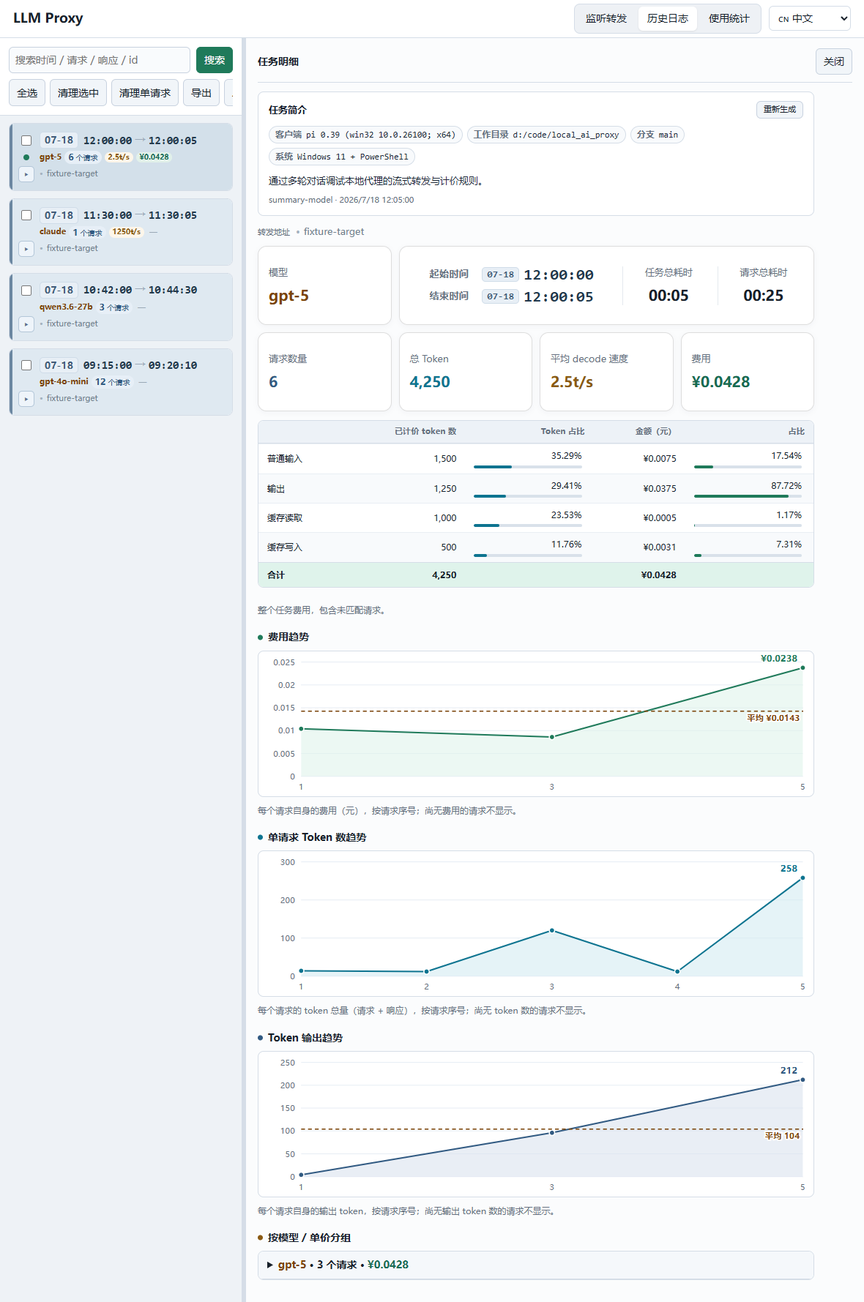
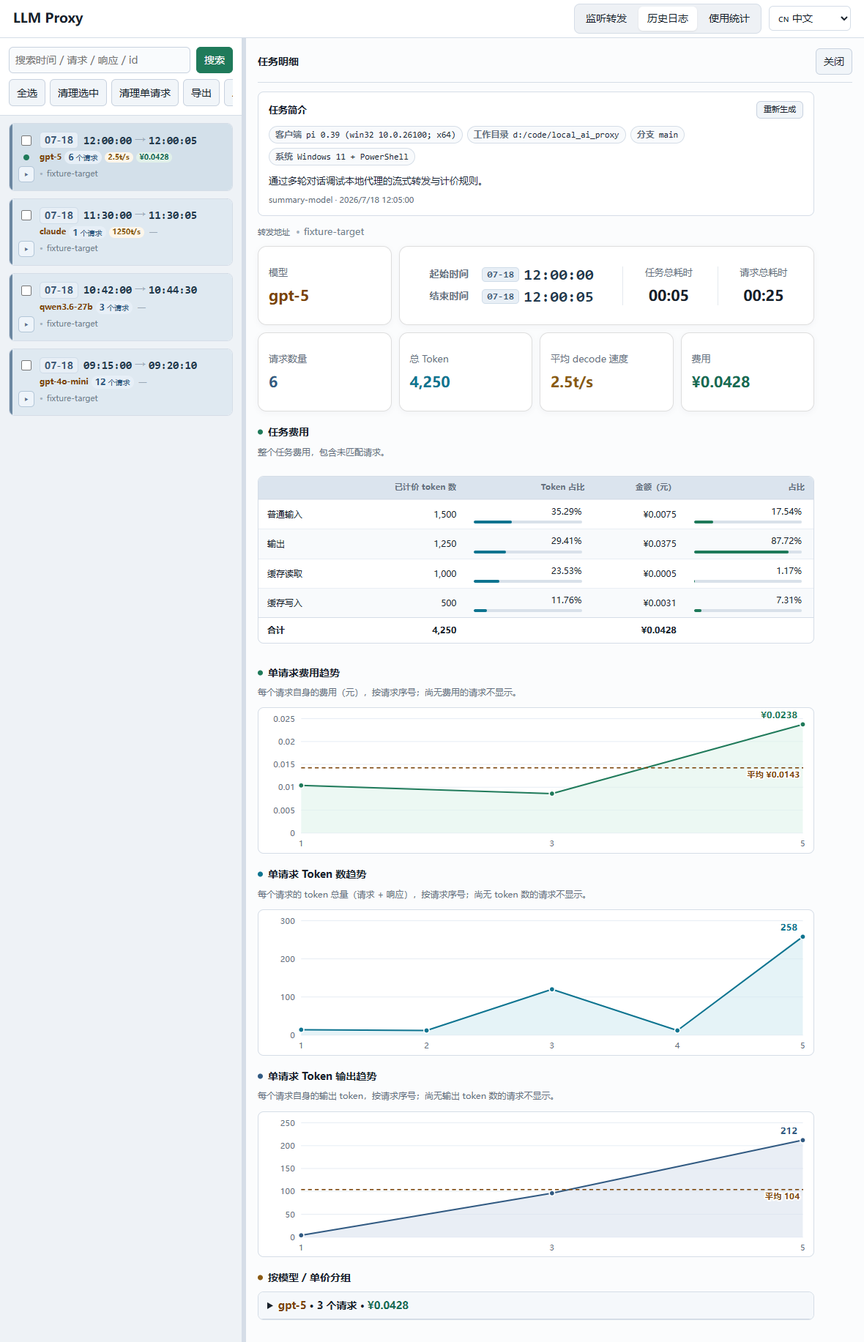
feat(admin-ui): group the task detail panel by titled sections
The task detail panel read as one flat block: the cost table had no name, two
trend charts were titled as if they were task totals when they plot one request
each, and every section's scope line sat under the picture it described, so it
read as a caption of what was already drawn.

- Add a "Task cost" / "任务费用" heading above the task breakdown table, with the
  same cost-green dot as the trend below it. The heading and its scope line only
  appear with the table; an unpriced task keeps the reason line plus the same
  scope line, since there is no heading to hang it on.
- Rename 费用趋势 -> 单请求费用趋势 and Token 输出趋势 -> 单请求 Token 输出趋势
  (English mirrors), which is what the series and the notes already say: one
  request's own cost and its own response_token_count.
- Move all four scope lines under their section title and above the content.
  .pricing-panel h3 + .pricing-note now carries the spacing: the line hugs the
  heading and hands the chart or table a full 12 px, instead of sitting 4 px
  above the svg and reading as its caption.
- Table header band darkens to #dbe4ee and the total row loses its fill, so the
  header is the only filled band and the total is marked by the border above it
  and bold type.

Two UI assertions pin the title-to-note adjacency, because the CSS spacing hangs
on that same sibling relation. Baselines re-captured: both task-detail images
1180 x 1833; all ten baseline rows verified against the on-disk bytes and
[…]

diff --git a/src/admin/static/modules/task-detail.js b/src/admin/static/modules/task-detail.js
@@ -840,13 +840,27 @@ export function renderTaskPricingPanel() {
   // The task brief is its own card at the very top of the panel, above the
   // fact grid: it is free-form prose, so it does not fit the stat-card shape.
   const briefCard = taskBriefCardHtml(renderInput.groupId, renderInput.brief);
+  // Every section in this panel reads the same way: title, then the one line
+  // that says what the section shows and what it leaves out, then the picture.
+  // Keeping the scope line under the title means the reader knows what they are
+  // about to look at before reaching the chart or the table, instead of reading
+  // it as a caption of whatever was already drawn.
   const tokenSeries = renderInput.tokenSeries;
-  const tokenChart = `<h3 class="section-token">${escapeHtml(t("tokenTrend"))}</h3>${tokenSeries === null ? `<p>${escapeHtml(t("loading"))}</p>` : taskTokenChartHtml(tokenSeries)}<p class="pricing-note">${escapeHtml(t("tokenTrendNote"))}</p>`;
+  const tokenChart = `<h3 class="section-token">${escapeHtml(t("tokenTrend"))}</h3><p class="pricing-note">${escapeHtml(t("tokenTrendNote"))}</p>${tokenSeries === null ? `<p>${escapeHtml(t("loading"))}</p>` : taskTokenChartHtml(tokenSeries)}`;
   const costSeries = renderInput.costSeries;
-  const costChart = `<h3 class="section-cost">${escapeHtml(t("costTrend"))}</h3>${costSeries === null ? `<p>${escapeHtml(t("loading"))}</p>` : taskCostChartHtml(costSeries)}<p class="pricing-note">${escapeHtml(t("costTrendNote"))}</p>`;
+  const costChart = `<h3 class="section-cost">${escapeHtml(t("costTrend"))}</h3><p class="pricing-note">${escapeHtml(t("costTrendNote"))}</p>${costSeries === null ? `<p>${escapeHtml(t("loading"))}</p>` : taskCostChartHtml(costSeries)}`;
   const outputTokenSeries = renderInput.outputTokenSeries;
-  const outputTokenChart = `<h3 class="section-output">${escapeHtml(t("outputTokenTrend"))}</h3>${outputTokenSeries === null ? `<p>${escapeHtml(t("loading"))}</p>` : taskOutputTokenChartHtml(outputTokenSeries)}<p class="pricing-note">${escapeHtml(t("outputTokenTrendNote"))}</p>`;
-  panel.innerHTML = `<div class="pricing-panel-head"><strong>${escapeHtml(t("taskPricing"))}</strong><button type="button" data-close-pricing>${escapeHtml(t("close"))}</button></div>${briefCard}${summaryCard}${data.priced_request_count ? taskBreakdownTableHtml(data.breakdown, pricingDecimalFromNano(data.cost_nano_cny)) : `<p>${escapeHtml(reasons || t("unpriced"))}</p>`}<p class="pricing-note">${escapeHtml(t("taskWholeScope"))}</p>${costChart}${tokenChart}${outputTokenChart}<h3 class="section-groups">${escapeHtml(t("priceGroups"))}</h3>${groups || `<p>${escapeHtml(t("unpriced"))}</p>`}`;
+  const outputTokenChart = `<h3 class="section-output">${escapeHtml(t("outputTokenTrend"))}</h3><p class="pricing-note">${escapeHtml(t("outputTokenTrendNote"))}</p>${outputTokenSeries === null ? `<p>${escapeHtml(t("loading"))}</p>` : taskOutputTokenChartHtml(outputTokenSeries)}`;
+  // The breakdown table is a section of its own: the heading names it "task
+  // cost" and carries the same green dot as the cost trend below it, so the
+  // table, its total row and the cost chart read as one cost-colored group.
+  // The scope line belongs under that heading, and an unpriced task has the
+  // reason line here instead: with no heading to hold the scope line, it stays
+  // below the reason so the panel still says what its numbers would have covered.
+  const breakdownSection = data.priced_request_count
+    ? `<h3 class="section-cost">${escapeHtml(t("taskCostBreakdown"))}</h3><p class="pricing-note">${escapeHtml(t("taskWholeScope"))}</p>${taskBreakdownTableHtml(data.breakdown, pricingDecimalFromNano(data.cost_nano_cny))}`
+    : `<p>${escapeHtml(reasons || t("unpriced"))}</p><p class="pricing-note">${escapeHtml(t("taskWholeScope"))}</p>`;
+  panel.innerHTML = `<div class="pricing-panel-head"><strong>${escapeHtml(t("taskPricing"))}</strong><button type="button" data-close-pricing>${escapeHtml(t("close"))}</button></div>${briefCard}${summaryCard}${breakdownSection}${costChart}${tokenChart}${outputTokenChart}<h3 class="section-groups">${escapeHtml(t("priceGroups"))}</h3>${groups || `<p>${escapeHtml(t("unpriced"))}</p>`}`;
   fitTaskSummaryValues(panel);
 }
 function loadTaskTokenSeries(groupId, signal) {

diff --git a/test-node/ui/admin-ui-history.test.ts b/test-node/ui/admin-ui-history.test.ts
@@ -757,6 +757,14 @@ describe("admin UI history page", { timeout: UI_TEST_TIMEOUT_MS }, () => {
       group.locator(".log-group-head").press("Enter"),
     ]);
     await expectPage(groupBreakdown).toBeHidden();
+    // The breakdown table is its own section: the "Task cost" heading sits
+    // directly above it and shares the cost-green dot with the cost trend.
+    await expectPage(panel.locator("h3.section-cost").first()).toHaveText("Task cost");
+    // Each section states its scope right under the title, before the picture.
+    // The CSS that spaces this line hangs on the same sibling adjacency.
+    await expectPage(panel.locator("h3.section-cost + .pricing-note").first()).toHaveText(
+      "Whole-task cost, including requests outside this list.",
+    );
     const taskBreakdown = panel.locator(".task-breakdown").first();
     await expectPage(taskBreakdown.locator("thead")).toContainText("Share");
     await expectPage(taskBreakdown.locator("tbody tr").first()).toContainText("17.54%");
@@ -781,9 +789,9 @@ describe("admin UI history page", { timeout: UI_TEST_TIMEOUT_MS }, () => {
     );
     // The highest point is labeled with its exact value (request #5 here).
     await expectPage(tokenChart.locator(".token-chart-peak")).toHaveText("258");
-    // Cost trend line chart: one dot per priced request with its own cost;
+    // Per-request cost trend line chart: one dot per priced request with its own cost;
     // the priced per-request costs sum to the task total in the panel header.
-    await expectPage(panel).toContainText("Cost trend");
+    await expectPage(panel).toContainText("Per-request cost trend");
     const costChart = panel.locator(".cost-chart svg");
     await expectPage(costChart).toBeVisible();
     await expectPage(costChart.locator(".token-chart-dot")).toHaveCount(3);
@@ -800,9 +808,12 @@ describe("admin UI history page", { timeout: UI_TEST_TIMEOUT_MS }, () => {
     // (0.0104 + 0.0086 + 0.02375) / 3, labeled at the right edge of the plot.
     await expectPage(costChart.locator(".token-chart-mean")).toHaveCount(1);
     await expectPage(costChart.locator(".token-chart-mean-label")).toHaveText("avg $0.0143");
-    // Token output trend line chart: one dot per request with a known output
+    // Per-request token output trend line chart: one dot per request with a known output
     // token count, each carrying that request's own (non-cumulative) count.
-    await expectPage(panel).toContainText("Token output trend");
+    await expectPage(panel).toContainText("Per-request token output trend");
+    await expectPage(panel.locator("h3.section-output + .pricing-note")).toHaveText(
+      "This request's own output tokens, by request sequence; requests without an output token count yet are not shown.",
+    );
     const outputChart = panel.locator(".output-token-chart svg");
     await expectPage(outputChart).toBeVisible();
     await expectPage(outputChart.locator(".token-chart-dot")).toHaveCount(3);

diff --git a/src/admin/static/modules/core.js b/src/admin/static/modules/core.js
@@ -450,15 +450,16 @@ const translations = {
     tokenShare: "Token 占比",
     costShare: "占比",
     total: "合计",
+    taskCostBreakdown: "任务费用",
     activeDuration: "请求总耗时",
     totalDuration: "任务总耗时",
     tokenTrend: "单请求 Token 数趋势",
     tokenTrendNote: "每个请求的 token 总量（请求 + 响应），按请求序号；尚无 token 数的请求不显示。",
     tokenTrendNoData: "暂无 token 数据",
-    costTrend: "费用趋势",
+    costTrend: "单请求费用趋势",
     costTrendNote: "每个请求自身的费用（元），按请求序号；尚无费用的请求不显示。",
     costTrendNoData: "暂无费用数据",
-    outputTokenTrend: "Token 输出趋势",
+    outputTokenTrend: "单请求 Token 输出趋势",
     outputTokenTrendNote: "每个请求自身的输出 token，按请求序号；尚无输出 token 数的请求不显示。",
     outputTokenTrendNoData: "暂无输出 token 数据",
     trendAvgPrefix: "平均",
@@ -814,17 +815,18 @@ const translations = {
     tokenShare: "Token share",
     costShare: "Share",
     total: "Total",
+    taskCostBreakdown: "Task cost",
     activeDuration: "Request time",
     totalDuration: "Task time",
     tokenTrend: "Per-request token count trend",
     tokenTrendNote:
       "Total tokens (request + response) per request, by request sequence; requests without token counts are not shown.",
     tokenTrendNoData: "No token data",
-    costTrend: "Cost trend",
+    costTrend: "Per-request cost trend",
     costTrendNote:
       "This request's own cost, by request sequence; requests without a cost yet are not shown.",
     costTrendNoData: "No cost data",
-    outputTokenTrend: "Token output trend",
+    outputTokenTrend: "Per-request token output trend",
     outputTokenTrendNote:
       "This request's own output tokens, by request sequence; requests without an output token count yet are not shown.",
     outputTokenTrendNoData: "No output token data",

diff --git a/src/admin/static/app.css b/src/admin/static/app.css
@@ -1637,6 +1637,13 @@ label span {
   color: var(--muted);
   font-size: 12px;
 }
+/* A scope line written straight under a panel heading hugs that heading (the
+   collapsed 8 px of the heading's own bottom margin) and then hands the chart
+   or table below it a full 12 px, so the line reads as part of the title rather
+   than as a caption of whatever was drawn under it. */
+.pricing-panel h3 + .pricing-note {
+  margin: 2px 0 12px;
+}
 .request-pricing {
   padding: 0 10px 8px;
 }
@@ -1823,7 +1830,10 @@ label span {
 .pricing-table thead th {
   border-top: none;
   border-bottom: 1px solid var(--line);
-  background: #edf2f7;
+  /* The header row is the darkest band of the table: it has to stay readable
+     above the near-white body rows and the pale total row, so the column names
+     carry the weight of the hierarchy instead of the small muted type. */
+  background: #dbe4ee;
   color: var(--muted);
   font-size: 11px;
   font-weight: 600;
@@ -1846,7 +1856,9 @@ label span {
   padding-top: 8px;
   padding-bottom: 8px;
   border-top: 1px solid var(--line);
-  background: var(--accent-soft);
+  /* No fill: the total row sits on the table's own white, so the bold type and
+     the border above it are what mark it as the sum, and the dark header band
+     stays the only filled band in the table. */
   font-weight: 700;
 }
 /* Group tables live inside the <details> card; let the card provide the frame. */

diff --git a/docs/current/contracts/ui-visual-baseline.md b/docs/current/contracts/ui-visual-baseline.md
@@ -22,8 +22,8 @@
[7 lines of base64/hex data omitted]
 
 哈希复现命令：
 
@@ -119,10 +119,9 @@ sha256sum doc/ui_proxy_cn.png doc/ui_proxy_en.png doc/ui_lb_cn.png doc/ui_lb_en.
 “任务明细”是 History 页内的浮层面板（`#pricingPanel`，覆盖 Request/Response 详情区，左侧任务列表保持可见），由任务卡片头部点击打开，由固定 fixture 驱动，关键基线：
 
 - 面板顶部为标题行（“任务明细”/“Task details”）与右侧“关闭”按钮，下方以细线分隔。
-- 标题下为总费用高亮块（绿色左色条 + 浅绿底）：左侧大号总费用金额，右侧“已计价 X / 未计价 Y / 等待中 Z”计数。
-- 高亮块下按序为转发地址、任务总耗时（首请求到末请求结束的墙钟时间）与请求总耗时（各请求耗时之和）三行说明。
-- 中部为计费明细表：按“未缓存输入 / 输出 / 缓存读取 / 缓存写入”列出计费 tokens、token 占比、金额与费用占比（带占比条）；token 占比条为青色（#0e7490）、费用占比条为绿色，两列配色与折线图一致，末行为合计。
-- 表下为"Whole-task cost"提示文案,随后是三张 SVG 折线图(x 均为请求序号,一个点一个请求,点带悬停 title),每图下方各有一行说明:费用趋势(y=每请求自身费用,无费用的请求不显示)、Token 总量趋势(y=每请求 token 总量,无 token 数的请求不显示)、Token 输出趋势(y=自任务开始到每个请求为止的累计输出 token)。三图按指标语义着色:Token 总量为青色(#0e7490,与"总 Token"卡片同色)、Token 输出为蓝色(#315a82,与请求数量蓝色同系)、费用保持绿色（绿色专属于费用语义）；各节标题左侧有与折线同色的小圆点，帮助快速区分三个分区。费用趋势与 Token 输出趋势图内另有一条表示逐请求平均值的水平虚线（琥珀色，独立于各图折线颜色，避免与数据混在一起），数值标在线右端（平均值为 0 或仅一个点时不画）；虚线与数值画在折线点之上，点密集时不被遮挡；逐请求 Token 总量图不含此线。
+- 标题行下依次是“任务简介”卡片（内容见上表基线行）、转发地址整行，以及 4 列事实卡片网格：第一行是模型卡片与横跨 3 列的时间条（时间范围 / 任务总耗时 / 请求总耗时），第二行是请求数量、总 Token、平均 decode 速度与费用。费用卡片只显示任务已知金额合计；已计价、未计价与等待中的请求数量不进面板，只有列表卡片和列表圆点用到它们。
+- 中部为任务费用表，自带节标题“任务费用”/“Task cost”（绿色圆点，与下方费用趋势同一语义色）：标题和它的范围说明只在有计价请求、表格出现时一起出现；未计价任务在这一行显示原因，后面跟着同一句范围说明，既没有表格也没有标题。表按“普通输入 / 输出 / 缓存读取 / 缓存写入”列出已计价 token 数、token 占比、金额与费用占比（带占比条）；token 占比条为青色（#0e7490）、费用占比条为绿色，两列配色与折线图一致，末行为合计。表头行底色 #dbe4ee 是全表唯一填色的带，合计行不填底色，与表体同一白底，只靠上边框和加粗字重与表体分开。
+- “整个任务费用，包含未匹配请求。”这句范围说明写在“任务费用”标题下方、表格上方,随后是三张 SVG 折线图(x 均为请求序号,一个点一个请求,点带悬停 title),每图的说明写在各自标题下方、图上方:单请求费用趋势(y=每请求自身费用,无费用的请求不显示)、单请求 Token 数趋势(y=每请求 token 总量,无 token 数的请求不显示)、单请求 Token 输出趋势(y=每个请求自身的输出 token,尚无输出 token 数的请求不显示)。三图按指标语义着色:Token 总量为青色(#0e7490,与"总 Token"卡片同色)、Token 输出为蓝色(#315a82,与请求数量蓝色同系)、费用保持绿色（绿色专属于费用语义）；各节标题左侧有与折线同色的小圆点，帮助快速区分三个分区（明细表的“任务费用”标题同样用绿色圆点，与费用趋势一起构成费用分区）。单请求费用趋势与单请求 Token 输出趋势图内另有一条表示逐请求平均值的水平虚线（琥珀色，独立于各图折线颜色，避免与数据混在一起），数值标在线右端（平均值为 0 或仅一个点时不画）；虚线与数值画在折线点之上，点密集时不被遮挡；逐请求 Token 总量图不含此线。
 - 三张折线图的纵轴刻度取 1/2/5 的“整齐”步长，轴上限选为在 3–8 段网格内最接近最大值的刻度，使最高点贴近顶部网格线，避免图表上方出现大片空白。
 - 面板底部列出按计费模型分组的“价格分组”折叠卡片（模型 · 请求数 · 费用，模型名为琥珀色、费用为绿色，与任务列表同一语义色），标题带琥珀色圆点；默认折叠，展开后为对应明细表；手动展开/折叠状态按任务记忆，面板刷新后保持。
 - 面板虽然浮在详情区上，左侧的任务列表仍然在画面里，所以“请求仍在进行”的圆点也在两张任务明细
@@ -131,7 +130,7 @@ sha256sum doc/ui_proxy_cn.png doc/ui_proxy_en.png doc/ui_lb_cn.png doc/ui_lb_en.
   变成 `e983f5eeb3f3…` / `589ad539010d…`，与旧图逐像素比对只差 60 个像素，全部落在
   (32,211)-(40,219) 这个范围内，即圆点本身；原因是 `4323f3f` 落这个标记时只重拍了两张 History
   基线，这两张跟着列表一起变的图没一起重拍，于是带着旧画面，本轮重拍把它补正，不是 TRI-06 引入的
-  画面变化。两张尺寸仍为 1180 x 1779。
+  画面变化。两张尺寸仍为 1180 x 1779；本轮给任务费用表加标题、加深表头底色、去掉合计行底色并把四段范围说明改到标题下方后，两张各自长到 1180 x 1833。
 - 面板内容宽度上限约 760px；中英文界面保持同一布局，金额单位分别使用 ¥ 与 $。
 
 ## 自动化视觉回归约定

diff --git a/docs/design/accepted/model-token-pricing.md b/docs/design/accepted/model-token-pricing.md
@@ -137,6 +137,8 @@ API Key   ••••••••••
 任务总耗时：00:20
 请求总耗时：00:12
 
+任务费用
+整个任务费用，包含未匹配请求。
 类别             已计价 token 数                    金额（元）       占比
 普通输入                 1,500                        0.0075       17.54%
 输出                     1,025                        0.0308       72.01%
@@ -162,9 +164,9 @@ API Key   ••••••••••
 
 面板在打开期间跟随任务实时更新，刷新频率与左侧任务列表一致（自动刷新开启时每 3 秒一次；拖拽分栏、页面隐藏或不在历史页时暂停）。一次刷新覆盖两块数据：费用、四类 token、三张趋势图与价格分组每次都重新请求 `GET /api/log-groups/:id/pricing*`；摘要卡的模型、时间范围、请求数与平均解码速度不在这组定价接口里，而是复用任务列表的汇总字段，因此每次刷新都用列表里该任务的最新汇总（`state.logGroups`）回填面板快照，而不是沿用打开面板时的那一份——运行中的任务计数会持续增长。任务列表被搜索词冻结（或该任务已不在当前页）时列表本身不刷新，但面板仍按同一频率单独刷新定价数据，其列表类字段保持最后一次已知值。重新打开同一任务的明细面板时会重新读取列表汇总，不会显示上一次打开时的计数。
 
-### 3.3.1 Token 总量趋势折线图
+### 3.3.1 单请求 Token 数趋势折线图
 
-在费用汇总表与“按模型 / 单价分组”之间新增“Token 总量趋势”区段，用一张折线图展示每个请求的 token 总量随请求序号的变化：横轴为请求序号（`sequence`，任务内从 1 递增），纵轴为该请求的 token 总量（`request_token_count + response_token_count`）。数据来自 `GET /api/log-groups/:id/pricing/tokens`（仅该单任务明细面板使用，任务列表页不带此字段以免增大列表响应）；后端逐请求返回 `{ sequence, request_tokens, response_tokens, total_tokens }`，其中任一侧未知（NULL）时该侧为 `null`，两侧皆未知时 `total_tokens` 为 `null`。
+在带“任务费用”标题的费用汇总表与“按模型 / 单价分组”之间新增“单请求 Token 数趋势”区段，用一张折线图展示每个请求的 token 总量随请求序号的变化：横轴为请求序号（`sequence`，任务内从 1 递增），纵轴为该请求的 token 总量（`request_token_count + response_token_count`）。数据来自 `GET /api/log-groups/:id/pricing/tokens`（仅该单任务明细面板使用，任务列表页不带此字段以免增大列表响应）；后端逐请求返回 `{ sequence, request_tokens, response_tokens, total_tokens }`，其中任一侧未知（NULL）时该侧为 `null`，两侧皆未知时 `total_tokens` 为 `null`。
 
 绘制规则：
 
@@ -175,21 +177,21 @@ API Key   ••••••••••
 - 面板打开时与费用数据并行拉取；关闭或切换任务时随现有 abort 控制器取消。语言切换、面板数据刷新后按当前语言重渲染。
 
 ```text
-Token 总量趋势
+单请求 Token 数趋势
+每个请求的 token 总量（请求 + 响应），按请求序号；尚无 token 数的请求不显示。
   400 ┤
   300 ┤                                       ●
   200 ┤                                  ●   ╱
   100 ┤              ●                 ╱
     0 ┼────●────────●────────────────●──────────
         1         2        3        4      5
-每个请求的 token 总量（请求 + 响应），按请求序号；尚无 token 数的请求不显示。
 ```
 
-### 3.3.2 Token 输出趋势折线图
+### 3.3.2 单请求 Token 输出趋势折线图
 
-Token 输出趋势展示一次任务“总共生成了多少输出 token”的累计过程，与费用趋势（见 README 的“任务明细”描述）结构一致：横轴为请求序号（`sequence`），纵轴为从任务第一条请求累计到当前请求的**输出** token（`response_token_count` 求和，未知按 0），折线单调上升。
+单请求 Token 输出趋势展示每个请求自己生成了多少输出 token，与单请求费用趋势（见 README 的“任务明细”描述）结构一致：横轴为请求序号（`sequence`），纵轴为该请求自身的**输出** token（`response_token_count`），不累计，折线因此不保证单调上升。
 
-数据来自 `GET /api/log-groups/:id/pricing/output-tokens`（仅任务明细面板使用），后端返回 `TaskOutputTokenSeriesPoint[] = { sequence, output_tokens }`，`output_tokens` 由持久化层 `TrafficRepository.taskOutputTokenSeries` 从序号 1 起对 `response_token_count` 求和得出。绘制规则与 3.3.1 完全一致：原生 SVG（`<polyline>`/`<polygon>`/`<circle>` + `<title>` 悬停提示“请求 #序号: N 输出 tokens”）、纵轴取整步长、横轴最多 8 个刻度；无已知输出 token 时显示“暂无 token 数据”占位（英文 “No token data”）；面板打开时并行拉取、关闭或切换时随 abort 控制器取消、语言切换与面板刷新后重渲染。容器类名为 `output-token-chart`（与 `token-chart`/`cost-chart` 共享 `token-chart-*` 元素类但容器互不相同，保证选择器无歧义）。
+数据来自 `GET /api/log-groups/:id/pricing/output-tokens`（仅任务明细面板使用），后端返回 `TaskOutputTokenSeriesPoint[] = { sequence, output_tokens }`，`output_tokens` 由持久化层 `TrafficRepository.taskOutputTokenSeries`（实现为 `src/persistence/pricing-store.ts` 的 `outputTokenSeries()`）逐行取 `response_token_count`，该列为 NULL 的记录整条不返回，所以点位可能不连续，不做累计。绘制规则与 3.3.1 完全一致：原生 SVG（`<polyline>`/`<polygon>`/`<circle>` + `<title>` 悬停提示“请求 #序号: N 输出 tokens”）、纵轴取整步长、横轴最多 8 个刻度；无已知输出 token 时显示“暂无输出 token 数据”占位（英文 “No output token data”）；面板打开时并行拉取、关闭或切换时随 abort 控制器取消、语言切换与面板刷新后重渲染。容器类名为 `output-token-chart`（与 `token-chart`/`cost-chart` 共享 `token-chart-*` 元素类但容器互不相同，保证选择器无歧义）。
 
 ### 3.4 历史记录二级：请求费用与明细
 
@@ -468,7 +470,7 @@ task 摘要：
 
 性能验证重点是万条记录搜索、单 task 数千请求、多个日志目录，以及长 SSE 的缓冲上限；比较现有基线，确认新增聚合不读取正文、不重复 FTS 查询、不引入 N+1。
 
-按项目要求，实际 UI 实现后、提交前运行 `npm run regen:ui-baselines`，更新 README 引用的 `doc/ui_*.png` 和 `docs/current/contracts/ui-visual-baseline.md` 哈希；任务明细面板的 Token 总量趋势、Token 输出趋势与费用趋势折线图均已覆盖在 `doc/ui_task_detail_cn.png`/`doc/ui_task_detail_en.png` 基线中。
+按项目要求，实际 UI 实现后、提交前运行 `npm run regen:ui-baselines`，更新 README 引用的 `doc/ui_*.png` 和 `docs/current/contracts/ui-visual-baseline.md` 哈希；任务明细面板的单请求 Token 数趋势、单请求 Token 输出趋势与单请求费用趋势折线图均已覆盖在 `doc/ui_task_detail_cn.png`/`doc/ui_task_detail_en.png` 基线中。
 
 ## 9. 评审重点
 

diff --git a/README.md b/README.md
@@ -105,7 +105,7 @@ qwen-local => qwen3
 | 任务分组 | 将 Agent 的连续多轮请求归入任务，便于按一次工作流查看。任务卡片头部按“时间范围 / 模型与指标 / 转发地址”三行排列：日期徽标与转发地址为中性蓝灰，请求数、解码速度、费用以浅色底标签区分。 |
 | 全文搜索 | 按路径、方法、状态、目标 URL、任务 ID 或记录 ID 搜索；空格分隔的关键词同时生效。 |
 | 请求详情 | 并排查看请求和响应 JSON，支持展开、折叠、换行、格式化和复制。大请求体按需渲染：折叠节点先只显示摘要，展开时才生成子节点；鼠标悬停在请求行上即预取详情，因此几 MB 的请求点开几乎立即可见，滚动时也会预填充视口附近的行。 |
-| 成本统计 | 按任务显示总费用、已计价/未计价请求、价格规则和 token 明细；每条请求显示其费用占比。缺少可靠用量或价格时标记为未计价，不会当作免费。点击任务头部打开“任务明细”面板查看费用；头部点击只打开面板，不再展开或收起该任务的请求列表；展开/折叠二级列表由控制列第三行的三角形按钮负责，展开时按需加载该任务的请求。面板顶部显示任务总耗时（第一个请求到最后一个请求结束的墙钟时间）与请求总耗时（各请求耗时之和，不含请求间隔），面板内另附“Token 总量趋势”折线图（按请求序号展示每个请求的 token 总量）、“Token 输出趋势”折线图（按请求序号展示每个请求自身的输出 token，尚无输出 token 数的请求不显示）与“费用趋势”折线图（按请求序号展示每个请求自身的费用，无费用的请求不显示），三条趋势图均在其最高点旁直接标出该点的具体数值（费用与悬浮提示同格式）。 |
+| 成本统计 | 按任务显示总费用、已计价/未计价请求、价格规则和 token 明细；每条请求显示其费用占比。缺少可靠用量或价格时标记为未计价，不会当作免费。点击任务头部打开“任务明细”面板查看费用；头部点击只打开面板，不再展开或收起该任务的请求列表；展开/折叠二级列表由控制列第三行的三角形按钮负责，展开时按需加载该任务的请求。面板顶部显示任务总耗时（第一个请求到最后一个请求结束的墙钟时间）与请求总耗时（各请求耗时之和，不含请求间隔），面板内另附“单请求 Token 数趋势”折线图（按请求序号展示每个请求的 token 总量）、“单请求 Token 输出趋势”折线图（按请求序号展示每个请求自身的输出 token，尚无输出 token 数的请求不显示）与“单请求费用趋势”折线图（按请求序号展示每个请求自身的费用，无费用的请求不显示），三条趋势图均在其最高点旁直接标出该点的具体数值（费用与悬浮提示同格式）。 |
 | 智能总结 | 使用配置的总结模型总结单条请求，并将连续消息分成可复用的缓存阶段；已有总结的请求会显示金色星标。 |
 | 任务简介 | 在“任务明细”面板顶部的“任务简介”卡片中点击“生成简介”按钮，总结模型会读取该任务最新一次完整请求，用一小段中文话概括这个任务主要在做什么，并把能从输入里读出的基础环境信息（客户端/agent 名称、当前工作目录、git 分支、系统等）一并提取成卡片上的一排标签；结果缓存在数据库中，可反复重新生成，打开面板不会自动调用模型产生费用。 |
 | 导出与清理 | 将选中的任务导出为 ZIP，或删除任务及其请求记录（支持一键清理列表中仅含单个请求的任务）。 |
@@ -113,7 +113,7 @@ qwen-local => qwen3
 
 ![任务明细面板](doc/ui_task_detail_cn.png)
 
-**任务明细**面板（点击任务卡片头部打开）最上方是“任务简介”卡片（点击“生成简介”由总结模型概括该任务在做什么，并把客户端/agent、工作目录、分支等基础环境信息提取成一排标签，结果缓存、可重新生成），其下汇总单次任务的总费用、按输入/输出/缓存分区的 token 明细与“Token 总量趋势”“Token 输出趋势”（每请求自身输出 token）“费用趋势”（每请求自身费用）折线图，每条趋势图的最高点旁直接标注该点的具体数值，并按计费模型分组展开单价与费用占比。
+**任务明细**面板（点击任务卡片头部打开）最上方是“任务简介”卡片（点击“生成简介”由总结模型概括该任务在做什么，并把客户端/agent、工作目录、分支等基础环境信息提取成一排标签，结果缓存、可重新生成），其下汇总单次任务的总费用，再往下是带“任务费用”标题的分项表（按输入/输出/缓存分区，合计行不填底色，表头行是全表唯一填色的带）与“单请求费用趋势”（每请求自身费用）、“单请求 Token 数趋势”、“单请求 Token 输出趋势”（每请求自身输出 token）三张折线图，每条趋势图的最高点旁直接标注该点的具体数值，并按计费模型分组展开单价与费用占比。
 
 历史数据默认保存在每个日志目录的 `traffic.db` SQLite 数据库中，代理配置保存在 `logs/proxies.json`。导出的 ZIP 包含可读 Markdown、`request.json` 和 `response.json`。
 

diff --git a/.agents/skills/documentation-maintenance/SKILL.md b/.agents/skills/documentation-maintenance/SKILL.md
@@ -54,6 +54,14 @@ description: >-
 - 如果新改动涉及某个文档家族，搜索代码注释、skill、测试和 README 中对该家族旧路径的引用。与本次家族直接相关的死路径必须修复；完全无关的历史引用才可以记录为后续工作。
 - 对新建或整篇重写的文档正文，运行显式 `--ignore-path .gitignore` 的 Prettier 并使其通过；从已有完成记录搬迁生成的报告保留来源排版；已有表格密集文档的局部修改运行 `git diff --check`、`npx vitest run test-node/docs` 和本地链接检查，避免把无关的表格重排混入修复。
 
+### 过期描述改原文，不往文档尾部追加补丁段
+
+1. 触发条件：本次改动让某段叙述失效，或发现某文档的描述与代码、测试、实测不一致。
+2. 观察到的失败：给已定稿的文档追加“实现校正”一类段落，同一文件里旧说法和新说法并存，读者先读到旧结论还要自己判断哪一段作数；追加段落里的英文句子又把中文叙述切成中英混排（`docs/README.md` 的语言规则与维护检查第 4 条）。
+3. 规则：先按目录和文件头的 `状态`、`权威性`、`更新条件` 判定生命周期，再选动作。`docs/current/`、`docs/design/active/`、`docs/plans/active/`，以及文件头写明“当前代码不一致时先更新设计或明确偏差”的 `docs/design/accepted/`：原地改写错误原文，同一事实全文只留一处。`docs/plans/archive/`、`docs/reports/`、`docs/history/` 这类过程与证据记录：不动原文，把当前描述写进唯一的当前文档，再从记录里链接过去。只有文件自己声明保留为当时记录时才禁止改写。任何时候都不允许用追加段落代替改写，也不允许先选一份“能写的文档”就地塞进去。
+4. 证明方法：改完对该事实做一次全文件 `rg`，确认只剩一处表述；按 `docs/README.md` 维护检查 1–5 逐条核对，第 4 条要求中文正文不混入另一种自然语言（代码符号、路径、命令和 HTTP 字段不算混用）；表格密集文档继续跑 `git diff --check` 和 `npx vitest run test-node/docs`。逐条问题见 [reference.md](./reference.md) 的“过期描述的归属检查”。
+5. 适用范围和失效条件：适用于叙述性描述过期。错误若在实现或测试本身，先修代码，不能只改文字让文档跟错误的实现对齐；文件头明确声明为历史证据时，本规则反过来要求保持原文。
+
 ### 用最小规则控制长期增长
 
 - 优先更新已有规则或 skill，只有不存在合适归属时才新增文件。
@@ -68,7 +76,7 @@ description: >-
 
 ```bash
 git status --short
-rg -n "旧路径|旧命令|旧符号" AGENTS.md .agents/skills docs test-node
+rg -n "旧路径|旧命令|旧符号|旧标题|旧口径" AGENTS.md .agents/skills docs test-node
 rg --files docs .agents/skills
 npm run check:skills
 npx prettier --ignore-path .gitignore --check AGENTS.md .agents/skills/<name>/SKILL.md
@@ -89,6 +97,7 @@ npx vitest run test-node/docs
 - `AGENTS.md` 是否仍然只包含跨任务规则？
 - skill 的触发条件、五个固定章节、命令、链接和文档状态是否一致？
 - 当前文档是否仍与代码和测试一致，历史材料是否没有被误当成当前合同？
+- 过期的叙述是否在符合其生命周期的文档里被原地改写，而不是靠追加段落盖过去？
 
 用 `git diff` 检查内容和归属，用 `git diff --check` 检查空白，用 `npm run check:skills` 检查 skill 结构、路径和命令；不要因为格式和路由测试通过就假定经验本身正确。
 

diff --git a/README.en.md b/README.en.md
@@ -63,7 +63,7 @@ qwen-local => qwen3
 
 ![Task details panel](doc/ui_task_detail_en.png)
 
-The **Task details** panel (open it from a task header, or its ⓘ icon button) starts with a **Task brief** card — its button asks the summary model for one short paragraph describing what the task is doing, plus the environment facts it can read (client/agent, working directory, branch, …) shown as pills, and the answer is cached until regenerated. Below it the panel summarizes a single task's total cost, per-bucket token breakdown (input / output / cache read / cache write), and a **Token trend** line chart, with model/price groups expanded to show pricing and cost share.
+The **Task details** panel (open it from a task header, or its ⓘ icon button) starts with a **Task brief** card — its button asks the summary model for one short paragraph describing what the task is doing, plus the environment facts it can read (client/agent, working directory, branch, …) shown as pills, and the answer is cached until regenerated. Below it the panel summarizes a single task's total cost, then a **Task cost** table (input / output / cache read / cache write, with a total row that carries no fill so the header band is the only filled band), and three per-request line charts — **Per-request cost trend**, **Per-request token count trend**, and **Per-request token output trend** — each labeling its highest point, followed by model/price groups expanded to show pricing and cost share.
 
 History data is stored by default in a `traffic.db` SQLite database under each log directory; proxy settings are stored in `logs/proxies.json`. Exported ZIP files contain readable Markdown, `request.json`, and `response.json`.
 

diff --git a/.agents/skills/documentation-maintenance/reference.md b/.agents/skills/documentation-maintenance/reference.md
@@ -25,6 +25,16 @@
 
 不需要为了填模板而新增文档。把这段记录放在当前任务的计划、报告或提交说明中，只有跨任务价值已经明确时才提取到长期文档。
 
+## 过期描述的归属检查
+
+发现某段叙述已经与代码、测试或实测不一致时，动笔前逐项回答：
+
+- 这段叙述现在还是真的吗？以代码、测试或实测为准，不以另一份文档为准。
+- 目标文件的 `状态`、`权威性`、`更新条件` 允许原地改写吗？`current/`、进行中的设计与计划，以及声明“当前代码不一致时先更新设计或明确偏差”的已接受设计可以；归档计划、报告和历史材料不行。
+- 同一事实是不是已经在当前合同、README 和设计里各写了一遍？只留一个权威入口，其余链接过去。
+- 追加一段会不会让同一文件同时留着新旧两种说法？会，就原地改写，不追加。
+- 改写后中文正文是否只剩一种自然语言？代码符号、路径、命令和 HTTP 字段不算混用。
+
 ## AGENTS.md 提案检查
 
 在根规则中增加内容前逐项回答：
